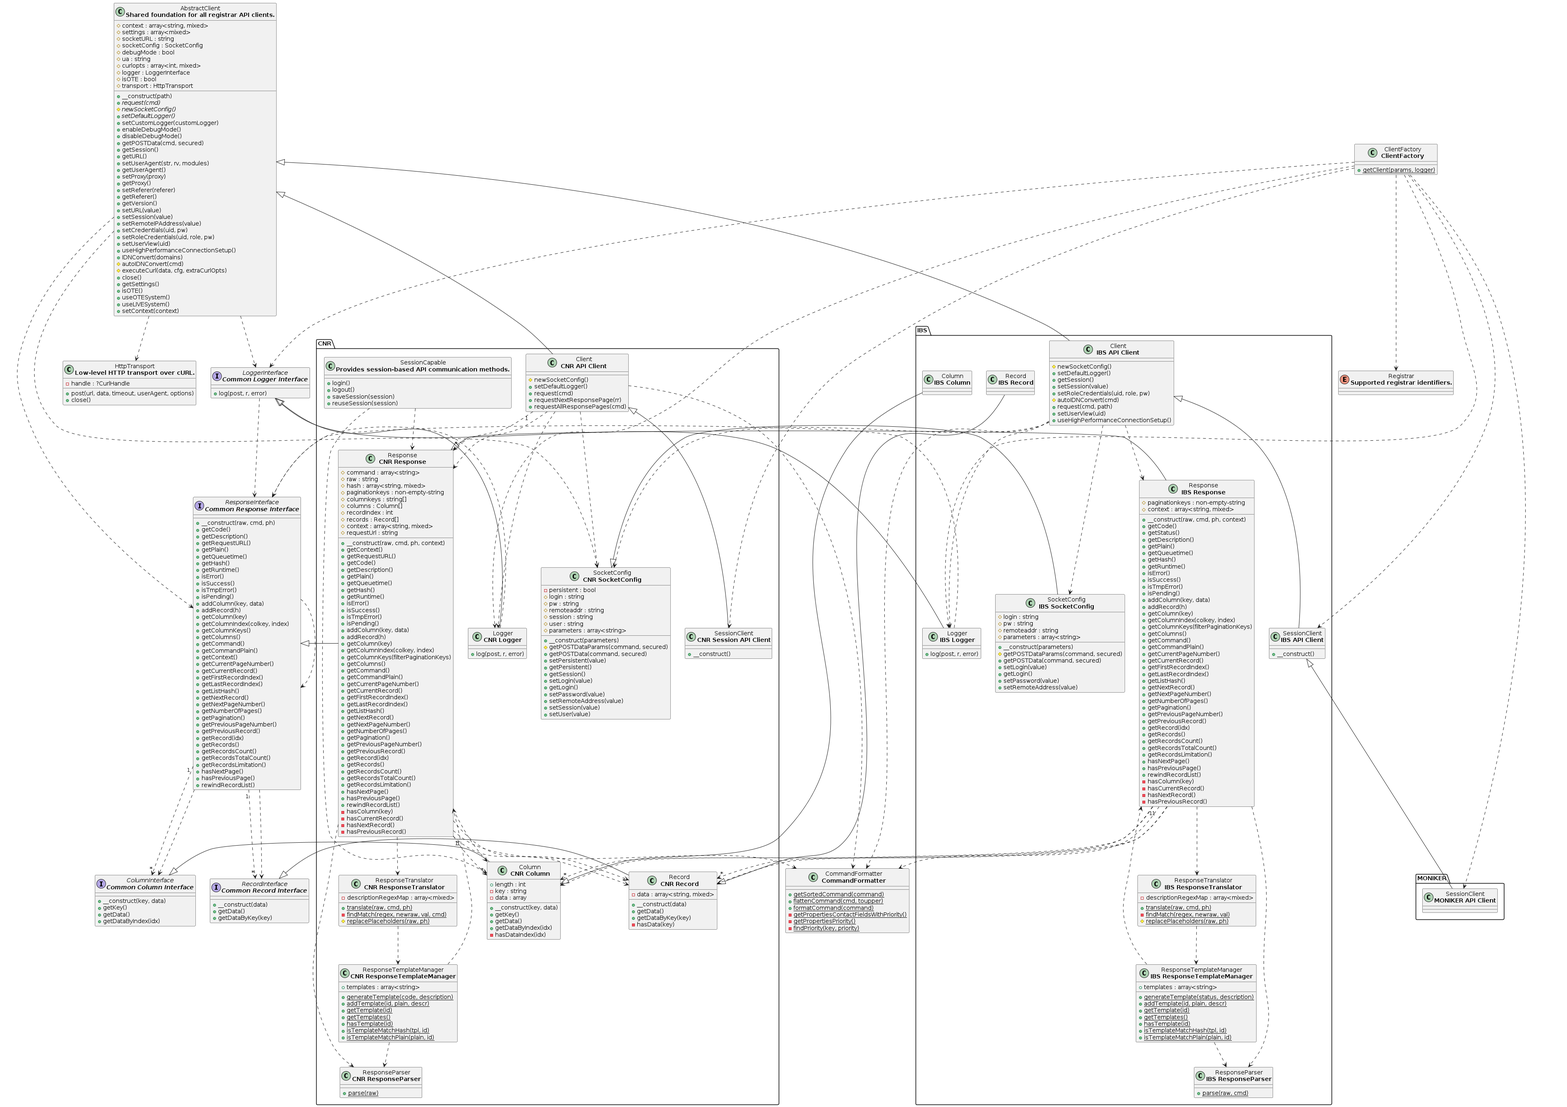
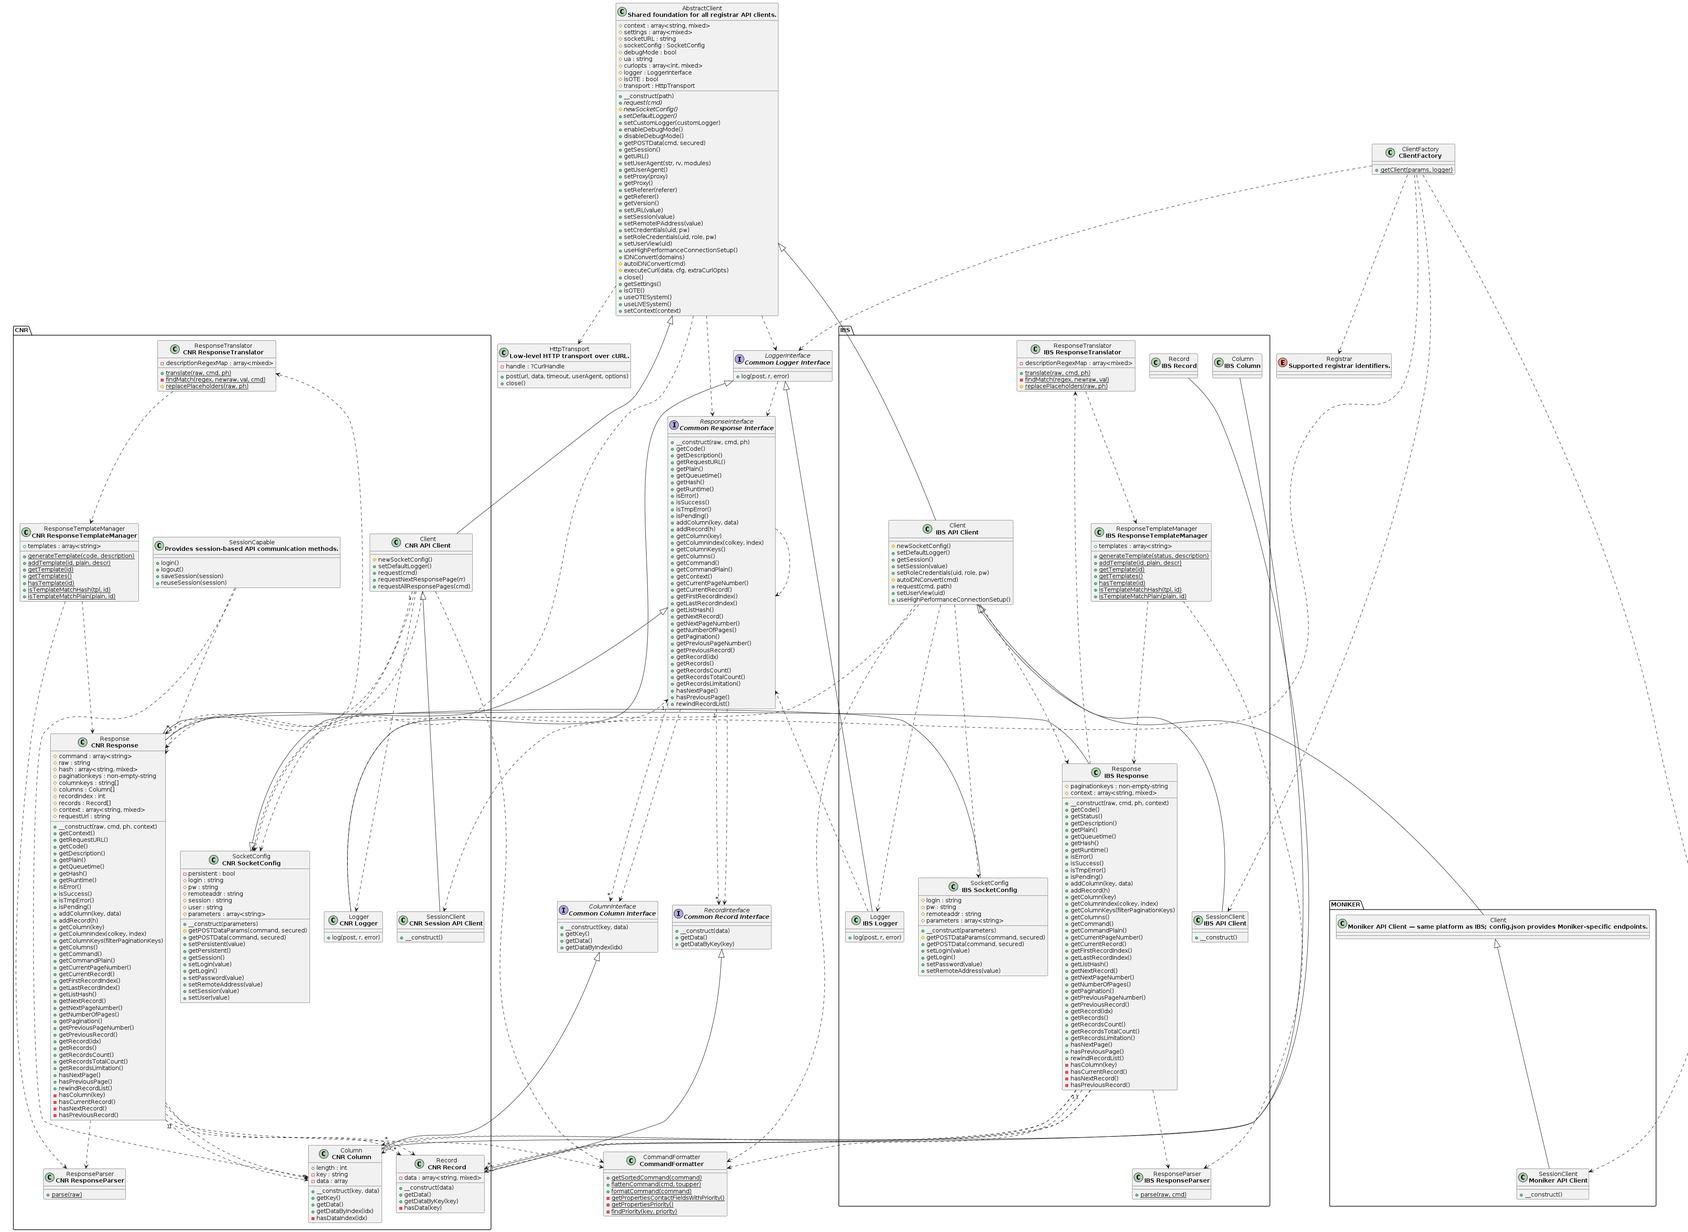
chore(release): 15.1.0 [skip ci]
# [15.1.0](https://github.com/centralnicgroup-opensource/rtldev-middleware-php-sdk/compare/v15.0.0...v15.1.0) (2026-06-12)

### Bug Fixes

* **devcontainer:** add shellcheck shell=bash directive to zsh scripts ([ab4dabb](https://github.com/centralnicgroup-opensource/rtldev-middleware-php-sdk/commit/ab4dabbbfdb591bec1d5ebb9752d1e61d55fde80))
* **devcontainer:** ensure xdebug coverage mode for PHPUnit in VSCode ([defcce9](https://github.com/centralnicgroup-opensource/rtldev-middleware-php-sdk/commit/defcce9d3c8598470f4268af169c8fd7f59719ee))
* **examples:** correct autoload path after moving scripts to examples/ ([0a68c11](https://github.com/centralnicgroup-opensource/rtldev-middleware-php-sdk/commit/0a68c116aaffb264961ba43c1ab204a671ec1f23))
* **ibs:** correct isSuccess() to accept non-error responses ([34996e9](https://github.com/centralnicgroup-opensource/rtldev-middleware-php-sdk/commit/34996e93e4b93c4b642a489838100f73cffe6724))
* **lint:** exclude node_modules and .husky/_/ from shellcheck scan ([09cd4c0](https://github.com/centralnicgroup-opensource/rtldev-middleware-php-sdk/commit/09cd4c01c69f607ab20d377801a42055a21a7a13))
* **moniker:** eliminate cross-namespace inheritance for MONIKER ([00a8219](https://github.com/centralnicgroup-opensource/rtldev-middleware-php-sdk/commit/00a82196aac78e42cce22494a74fbefdfb8a4d11))

### Features
[…]

diff --git a/docs/CNIC/MONIKER/Client.html b/docs/CNIC/MONIKER/Client.html
@@ -3,7 +3,7 @@
 <head>
     <meta charset="UTF-8" />
     <meta name="robots" content="index, follow, all" />
-    <title>CNIC\MONIKER\SessionClient | PHP SDK by CNIC</title>
+    <title>CNIC\MONIKER\Client | PHP SDK by CNIC</title>
 
             <link rel="stylesheet" type="text/css" href="../../css/bootstrap.min.css">
         <link rel="stylesheet" type="text/css" href="../../css/bootstrap-theme.min.css">
@@ -19,7 +19,7 @@
 
     </head>
 
-    <body id="class" data-name="class:CNIC_MONIKER_SessionClient" data-root-path="../../" data-search-index-url="../../doctum-search.json">
+    <body id="class" data-name="class:CNIC_MONIKER_Client" data-root-path="../../" data-search-index-url="../../doctum-search.json">
             <div id="content">
         <div id="left-column">
                 <div id="control-panel">
@@ -75,18 +75,18 @@
                         <div class="namespace-breadcrumbs">
             <ol class="breadcrumb">
                 <li><span class="label label-default">class</span></li>
-                        <li><a href="../../CNIC.html">CNIC</a></li><li class="backslash">\</li><li><a href="../../CNIC/MONIKER.html">MONIKER</a></li><li class="backslash">\</li><li>SessionClient</li>
+                        <li><a href="../../CNIC.html">CNIC</a></li><li class="backslash">\</li><li><a href="../../CNIC/MONIKER.html">MONIKER</a></li><li class="backslash">\</li><li>Client</li>
             </ol>
         </div>
                 <div id="page-content">
     <div class="page-header">
-        <h1>SessionClient    
+        <h1>Client    
             </h1>
     </div>
 
     
-    <p>final         class
-    <strong>SessionClient</strong>        extends <a href="../../CNIC/MONIKER/Client.html"><abbr title="CNIC\MONIKER\Client">Client</abbr></a>        (<a href="https://github.com/centralnicgroup-opensource/rtldev-middleware-php-sdk/blob/main/.github/../src/MONIKER/SessionClient.php">View source</a>)
+    <p>        class
+    <strong>Client</strong>        extends <a href="../../CNIC/IBS/Client.html"><abbr title="CNIC\IBS\Client">Client</abbr></a>        (<a href="https://github.com/centralnicgroup-opensource/rtldev-middleware-php-sdk/blob/main/.github/../src/MONIKER/Client.php">View source</a>)
 </p>
 
         
@@ -95,7 +95,7 @@
         
 
             <div class="description">
-            <p><p>Moniker API Client</p></p>                    </div>
+            <p><p>Moniker API Client — same platform as IBS; config.json provides Moniker-specific endpoints.</p></p>                    </div>
             
         
     
@@ -213,10 +213,11 @@
                     
                 </div>
                 <div class="col-md-8">
-                    <a href="#method___construct">__construct</a>()
+                    <a href="#method___construct">__construct</a>(string $path = &quot;&quot;)
         
                                             <p>Constructor</p>                </div>
-                <div class="col-md-2"></div>
+                <div class="col-md-2"><small>from&nbsp;<a href="../../CNIC/AbstractClient.html#method___construct">
+<abbr title="CNIC\AbstractClient">AbstractClient</abbr></a></small></div>
             </div>
                     <div class="row">
                 <div class="col-md-2 type">
@@ -582,9 +583,10 @@ Note: not supported.</p></p>                </div>
             <div id="method-details">
                     <div class="method-item">
                     <h3 id="method___construct">
-        <div class="location"><a href="https://github.com/centralnicgroup-opensource/rtldev-middleware-php-sdk/blob/main/.github/../src/MONIKER/SessionClient.php#L24">at line 24</a></div>
+        <div class="location">in <a href="../../CNIC/AbstractClient.html#method___construct">
+<abbr title="CNIC\AbstractClient">AbstractClient</abbr></a> <a href="https://github.com/centralnicgroup-opensource/rtldev-middleware-php-sdk/blob/main/.github/../src/AbstractClient.php#L86">at line 86</a></div>
         <code>                    
-    <strong>__construct</strong>()
+    <strong>__construct</strong>(string $path = &quot;&quot;)
         </code>
     </h3>
     <div class="details">    
@@ -596,17 +598,18 @@ Note: not supported.</p></p>                </div>
                             <p>Constructor</p>                        
         </div>
         <div class="tags">
-            
-            
-                            <h4>Exceptions</h4>
+                            <h4>Parameters</h4>
 
                     <table class="table table-condensed">
                     <tr>
-                <td><a target="_blank" rel="noopener" href="https://www.php.net/Exception">Exception</a></td>
-                <td></td>
+                <td>string</td>
+                <td>$path</td>
+                <td><p>Path to the configuration file</p></td>
             </tr>
             </table>
 
+            
+            
             
             
                     </div>

diff --git a/docs/doc-index.html b/docs/doc-index.html
@@ -154,7 +154,8 @@
                     <dd><p>IBS API Client</p></dd><dt><a href="CNIC/IBS/Column.html"><abbr title="CNIC\IBS\Column">Column</abbr></a> &mdash; <em>Class in namespace <a href="CNIC/IBS.html">CNIC\IBS</a></em></dt>
                     <dd><p>IBS Column</p></dd><dt>$<a href="CNIC/IBS/Response.html#property_context">
 <abbr title="CNIC\IBS\Response">Response</abbr>#context</a> &mdash; <em>Property in class <a href="CNIC/IBS/Response.html"><abbr title="CNIC\IBS\Response">Response</abbr></a></em></dt>
-                    <dd><p>Context data for the response</p></dd>        </dl><h2 id="letterD">D</h2>
+                    <dd><p>Context data for the response</p></dd><dt><a href="CNIC/MONIKER/Client.html"><abbr title="CNIC\MONIKER\Client">Client</abbr></a> &mdash; <em>Class in namespace <a href="CNIC/MONIKER.html">CNIC\MONIKER</a></em></dt>
+                    <dd><p>Moniker API Client — same platform as IBS; config.json provides Moniker-specific endpoints.</p></dd>        </dl><h2 id="letterD">D</h2>
         <dl id="indexD"><dt>$<a href="CNIC/AbstractClient.html#property_debugMode">
 <abbr title="CNIC\AbstractClient">AbstractClient</abbr>#debugMode</a> &mdash; <em>Property in class <a href="CNIC/AbstractClient.html"><abbr title="CNIC\AbstractClient">AbstractClient</abbr></a></em></dt>
                     <dd><p>activity flag for debug mode</p></dd><dt><a href="CNIC/AbstractClient.html#method_disableDebugMode">
@@ -655,7 +656,7 @@ Note: not supported.</p></dd><dt><a href="CNIC/IBS/SessionClient.html"><abbr tit
                     <dd><p>Set account password to use</p></dd><dt><a href="CNIC/IBS/SocketConfig.html#method_setRemoteAddress">
 <abbr title="CNIC\IBS\SocketConfig">SocketConfig</abbr>::setRemoteAddress</a>() &mdash; <em>Method in class <a href="CNIC/IBS/SocketConfig.html"><abbr title="CNIC\IBS\SocketConfig">SocketConfig</abbr></a></em></dt>
                     <dd><p>Set Remote IP Address to use</p></dd><dt><a href="CNIC/MONIKER/SessionClient.html"><abbr title="CNIC\MONIKER\SessionClient">SessionClient</abbr></a> &mdash; <em>Class in namespace <a href="CNIC/MONIKER.html">CNIC\MONIKER</a></em></dt>
-                    <dd><p>MONIKER API Client</p></dd>        </dl><h2 id="letterT">T</h2>
+                    <dd><p>Moniker API Client</p></dd>        </dl><h2 id="letterT">T</h2>
         <dl id="indexT"><dt>$<a href="CNIC/AbstractClient.html#property_transport">
 <abbr title="CNIC\AbstractClient">AbstractClient</abbr>#transport</a> &mdash; <em>Property in class <a href="CNIC/AbstractClient.html"><abbr title="CNIC\AbstractClient">AbstractClient</abbr></a></em></dt>
                     <dd><p>HTTP transport layer</p></dd><dt>$<a href="CNIC/CNR/ResponseTemplateManager.html#property_templates">
@@ -702,6 +703,8 @@ e.g.</p></dd><dt><a href="CNIC/CNR/Response.html#method___construct">
 <abbr title="CNIC\IBS\SessionClient">SessionClient</abbr>::__construct</a>() &mdash; <em>Method in class <a href="CNIC/IBS/SessionClient.html"><abbr title="CNIC\IBS\SessionClient">SessionClient</abbr></a></em></dt>
                     <dd>Constructor</dd><dt><a href="CNIC/IBS/SocketConfig.html#method___construct">
 <abbr title="CNIC\IBS\SocketConfig">SocketConfig</abbr>::__construct</a>() &mdash; <em>Method in class <a href="CNIC/IBS/SocketConfig.html"><abbr title="CNIC\IBS\SocketConfig">SocketConfig</abbr></a></em></dt>
+                    <dd>Constructor</dd><dt><a href="CNIC/MONIKER/SessionClient.html#method___construct">
+<abbr title="CNIC\MONIKER\SessionClient">SessionClient</abbr>::__construct</a>() &mdash; <em>Method in class <a href="CNIC/MONIKER/SessionClient.html"><abbr title="CNIC\MONIKER\SessionClient">SessionClient</abbr></a></em></dt>
                     <dd>Constructor</dd><dt><a href="CNIC/RecordInterface.html#method___construct">
 <abbr title="CNIC\RecordInterface">RecordInterface</abbr>::__construct</a>() &mdash; <em>Method in class <a href="CNIC/RecordInterface.html"><abbr title="CNIC\RecordInterface">RecordInterface</abbr></a></em></dt>
                     <dd><p>Constructor

diff --git a/docs/doctum.js b/docs/doctum.js
@@ -1,5 +1,5 @@
 var Doctum = {
-    treeJson: {"tree":{"l":0,"n":"","p":"","c":[{"l":1,"n":"CNIC","p":"CNIC","c":[{"l":2,"n":"CNR","p":"CNIC/CNR","c":[{"l":3,"n":"Client","p":"CNIC/CNR/Client"},{"l":3,"n":"Column","p":"CNIC/CNR/Column"},{"l":3,"n":"Logger","p":"CNIC/CNR/Logger"},{"l":3,"n":"Record","p":"CNIC/CNR/Record"},{"l":3,"n":"Response","p":"CNIC/CNR/Response"},{"l":3,"n":"ResponseParser","p":"CNIC/CNR/ResponseParser"},{"l":3,"n":"ResponseTemplateManager","p":"CNIC/CNR/ResponseTemplateManager"},{"l":3,"n":"ResponseTranslator","p":"CNIC/CNR/ResponseTranslator"},{"l":3,"n":"SessionCapable","p":"CNIC/CNR/SessionCapable"},{"l":3,"n":"SessionClient","p":"CNIC/CNR/SessionClient"},{"l":3,"n":"SocketConfig","p":"CNIC/CNR/SocketConfig"}]},{"l":2,"n":"IBS","p":"CNIC/IBS","c":[{"l":3,"n":"Client","p":"CNIC/IBS/Client"},{"l":3,"n":"Column","p":"CNIC/IBS/Column"},{"l":3,"n":"Logger","p":"CNIC/IBS/Logger"},{"l":3,"n":"Record","p":"CNIC/IBS/Record"},{"l":3,"n":"Response","p":"CNIC/IBS/Response"},{"l":3,"n":"ResponseParser","p":"CNIC/IBS/ResponseParser"},{"l":3,"n":"ResponseTemplateManager","p":"CNIC/IBS/ResponseTemplateManager"},{"l":3,"n":"ResponseTranslator","p":"CNIC/IBS/ResponseTranslator"},{"l":3,"n":"SessionClient","p":"CNIC/IBS/SessionClient"},{"l":3,"n":"SocketConfig","p":"CNIC/IBS/SocketConfig"}]},{"l":2,"n":"MONIKER","p":"CNIC/MONIKER","c":[{"l":3,"n":"SessionClient","p":"CNIC/MONIKER/SessionClient"}]},{"l":2,"n":"AbstractClient","p":"CNIC/AbstractClient"},{"l":2,"n":"ClientFactory","p":"CNIC/ClientFactory"},{"l":2,"n":"ColumnInterface","p":"CNIC/ColumnInterface"},{"l":2,"n":"CommandFormatter","p":"CNIC/CommandFormatter"},{"l":2,"n":"HttpTransport","p":"CNIC/HttpTransport"},{"l":2,"n":"LoggerInterface","p":"CNIC/LoggerInterface"},{"l":2,"n":"RecordInterface","p":"CNIC/RecordInterface"},{"l":2,"n":"ResponseInterface","p":"CNIC/ResponseInterface"}]}]},"treeOpenLevel":2},
+    treeJson: {"tree":{"l":0,"n":"","p":"","c":[{"l":1,"n":"CNIC","p":"CNIC","c":[{"l":2,"n":"CNR","p":"CNIC/CNR","c":[{"l":3,"n":"Client","p":"CNIC/CNR/Client"},{"l":3,"n":"Column","p":"CNIC/CNR/Column"},{"l":3,"n":"Logger","p":"CNIC/CNR/Logger"},{"l":3,"n":"Record","p":"CNIC/CNR/Record"},{"l":3,"n":"Response","p":"CNIC/CNR/Response"},{"l":3,"n":"ResponseParser","p":"CNIC/CNR/ResponseParser"},{"l":3,"n":"ResponseTemplateManager","p":"CNIC/CNR/ResponseTemplateManager"},{"l":3,"n":"ResponseTranslator","p":"CNIC/CNR/ResponseTranslator"},{"l":3,"n":"SessionCapable","p":"CNIC/CNR/SessionCapable"},{"l":3,"n":"SessionClient","p":"CNIC/CNR/SessionClient"},{"l":3,"n":"SocketConfig","p":"CNIC/CNR/SocketConfig"}]},{"l":2,"n":"IBS","p":"CNIC/IBS","c":[{"l":3,"n":"Client","p":"CNIC/IBS/Client"},{"l":3,"n":"Column","p":"CNIC/IBS/Column"},{"l":3,"n":"Logger","p":"CNIC/IBS/Logger"},{"l":3,"n":"Record","p":"CNIC/IBS/Record"},{"l":3,"n":"Response","p":"CNIC/IBS/Response"},{"l":3,"n":"ResponseParser","p":"CNIC/IBS/ResponseParser"},{"l":3,"n":"ResponseTemplateManager","p":"CNIC/IBS/ResponseTemplateManager"},{"l":3,"n":"ResponseTranslator","p":"CNIC/IBS/ResponseTranslator"},{"l":3,"n":"SessionClient","p":"CNIC/IBS/SessionClient"},{"l":3,"n":"SocketConfig","p":"CNIC/IBS/SocketConfig"}]},{"l":2,"n":"MONIKER","p":"CNIC/MONIKER","c":[{"l":3,"n":"Client","p":"CNIC/MONIKER/Client"},{"l":3,"n":"SessionClient","p":"CNIC/MONIKER/SessionClient"}]},{"l":2,"n":"AbstractClient","p":"CNIC/AbstractClient"},{"l":2,"n":"ClientFactory","p":"CNIC/ClientFactory"},{"l":2,"n":"ColumnInterface","p":"CNIC/ColumnInterface"},{"l":2,"n":"CommandFormatter","p":"CNIC/CommandFormatter"},{"l":2,"n":"HttpTransport","p":"CNIC/HttpTransport"},{"l":2,"n":"LoggerInterface","p":"CNIC/LoggerInterface"},{"l":2,"n":"RecordInterface","p":"CNIC/RecordInterface"},{"l":2,"n":"ResponseInterface","p":"CNIC/ResponseInterface"}]}]},"treeOpenLevel":2},
     /** @var boolean */
     treeLoaded: false,
     /** @var boolean */

diff --git a/docs/CNIC/ClientFactory.html b/docs/CNIC/ClientFactory.html
@@ -105,7 +105,7 @@
             <div class="container-fluid underlined">
                     <div class="row">
                 <div class="col-md-2 type">
-                    static&nbsp;<a href="../CNIC/CNR/SessionClient.html"><abbr title="CNIC\CNR\SessionClient">SessionClient</abbr></a>|<a href="../CNIC/IBS/SessionClient.html"><abbr title="CNIC\IBS\SessionClient">SessionClient</abbr></a>
+                    static&nbsp;<a href="../CNIC/CNR/SessionClient.html"><abbr title="CNIC\CNR\SessionClient">SessionClient</abbr></a>|<a href="../CNIC/IBS/SessionClient.html"><abbr title="CNIC\IBS\SessionClient">SessionClient</abbr></a>|<a href="../CNIC/MONIKER/SessionClient.html"><abbr title="CNIC\MONIKER\SessionClient">SessionClient</abbr></a>
                 </div>
                 <div class="col-md-8">
                     <a href="#method_getClient">getClient</a>(array $params, <a href="../CNIC/LoggerInterface.html"><abbr title="CNIC\LoggerInterface">LoggerInterface</abbr></a>|null $logger = null)
@@ -121,8 +121,8 @@
             <div id="method-details">
                     <div class="method-item">
                     <h3 id="method_getClient">
-        <div class="location"><a href="https://github.com/centralnicgroup-opensource/rtldev-middleware-php-sdk/blob/main/.github/../src/ClientFactory.php#L29">at line 29</a></div>
-        <code>        static            <a href="../CNIC/CNR/SessionClient.html"><abbr title="CNIC\CNR\SessionClient">SessionClient</abbr></a>|<a href="../CNIC/IBS/SessionClient.html"><abbr title="CNIC\IBS\SessionClient">SessionClient</abbr></a>
+        <div class="location"><a href="https://github.com/centralnicgroup-opensource/rtldev-middleware-php-sdk/blob/main/.github/../src/ClientFactory.php#L27">at line 27</a></div>
+        <code>        static            <a href="../CNIC/CNR/SessionClient.html"><abbr title="CNIC\CNR\SessionClient">SessionClient</abbr></a>|<a href="../CNIC/IBS/SessionClient.html"><abbr title="CNIC\IBS\SessionClient">SessionClient</abbr></a>|<a href="../CNIC/MONIKER/SessionClient.html"><abbr title="CNIC\MONIKER\SessionClient">SessionClient</abbr></a>
     <strong>getClient</strong>(array $params, <a href="../CNIC/LoggerInterface.html"><abbr title="CNIC\LoggerInterface">LoggerInterface</abbr></a>|null $logger = null)
         </code>
     </h3>
@@ -155,7 +155,7 @@
 
                     <table class="table table-condensed">
         <tr>
-            <td><a href="../CNIC/CNR/SessionClient.html"><abbr title="CNIC\CNR\SessionClient">SessionClient</abbr></a>|<a href="../CNIC/IBS/SessionClient.html"><abbr title="CNIC\IBS\SessionClient">SessionClient</abbr></a></td>
+            <td><a href="../CNIC/CNR/SessionClient.html"><abbr title="CNIC\CNR\SessionClient">SessionClient</abbr></a>|<a href="../CNIC/IBS/SessionClient.html"><abbr title="CNIC\IBS\SessionClient">SessionClient</abbr></a>|<a href="../CNIC/MONIKER/SessionClient.html"><abbr title="CNIC\MONIKER\SessionClient">SessionClient</abbr></a></td>
             <td></td>
         </tr>
     </table>

diff --git a/docs/traits.html b/docs/traits.html
@@ -85,7 +85,7 @@
                         <p>Provides session-based API communication methods.</p>
                     </div>
                 </div>
-                                                                                                                                                                                                                                                                                                                                                                                                                                        </div>
+                                                                                                                                                                                                                                                                                                                                                                                                                                                            </div>
 </div><div id="footer">
         Generated by <a href="https://github.com/code-lts/doctum">Doctum, a API Documentation generator and fork of Sami</a>.</div></div>
     </div>

diff --git a/docs/classes.html b/docs/classes.html
@@ -217,8 +217,13 @@
             </div>
                     <div class="row">
                 <div class="col-md-6">
+                    <a href="CNIC/MONIKER/Client.html"><abbr title="CNIC\MONIKER\Client">Client</abbr></a>    </div>
+                <div class="col-md-6"><p>Moniker API Client — same platform as IBS; config.json provides Moniker-specific endpoints.</p></div>
+            </div>
+                    <div class="row">
+                <div class="col-md-6">
                     <a href="CNIC/MONIKER/SessionClient.html"><abbr title="CNIC\MONIKER\SessionClient">SessionClient</abbr></a>    </div>
-                <div class="col-md-6"><p>MONIKER API Client</p></div>
+                <div class="col-md-6"><p>Moniker API Client</p></div>
             </div>
                     <div class="row">
                 <div class="col-md-6">

diff --git a/docs/CNIC/MONIKER.html b/docs/CNIC/MONIKER.html
@@ -88,8 +88,13 @@
     <div class="container-fluid underlined">
                     <div class="row">
                 <div class="col-md-6">
+                    <a href="../CNIC/MONIKER/Client.html"><abbr title="CNIC\MONIKER\Client">Client</abbr></a>    </div>
+                <div class="col-md-6"><p>Moniker API Client — same platform as IBS; config.json provides Moniker-specific endpoints.</p></div>
+            </div>
+                    <div class="row">
+                <div class="col-md-6">
                     <a href="../CNIC/MONIKER/SessionClient.html"><abbr title="CNIC\MONIKER\SessionClient">SessionClient</abbr></a>    </div>
-                <div class="col-md-6"><p>MONIKER API Client</p></div>
+                <div class="col-md-6"><p>Moniker API Client</p></div>
             </div>
             </div>
     

diff --git a/src/AbstractClient.php b/src/AbstractClient.php
@@ -263,7 +263,7 @@ abstract class AbstractClient
      */
     public function getVersion(): string
     {
-        return "15.0.0";
+        return "15.1.0";
     }
 
     /**

diff --git a/HISTORY.md b/HISTORY.md
@@ -1,3 +1,21 @@
+# [15.1.0](https://github.com/centralnicgroup-opensource/rtldev-middleware-php-sdk/compare/v15.0.0...v15.1.0) (2026-06-12)
+
+
+### Bug Fixes
+
+* **devcontainer:** add shellcheck shell=bash directive to zsh scripts ([ab4dabb](https://github.com/centralnicgroup-opensource/rtldev-middleware-php-sdk/commit/ab4dabbbfdb591bec1d5ebb9752d1e61d55fde80))
+* **devcontainer:** ensure xdebug coverage mode for PHPUnit in VSCode ([defcce9](https://github.com/centralnicgroup-opensource/rtldev-middleware-php-sdk/commit/defcce9d3c8598470f4268af169c8fd7f59719ee))
+* **examples:** correct autoload path after moving scripts to examples/ ([0a68c11](https://github.com/centralnicgroup-opensource/rtldev-middleware-php-sdk/commit/0a68c116aaffb264961ba43c1ab204a671ec1f23))
+* **ibs:** correct isSuccess() to accept non-error responses ([34996e9](https://github.com/centralnicgroup-opensource/rtldev-middleware-php-sdk/commit/34996e93e4b93c4b642a489838100f73cffe6724))
+* **lint:** exclude node_modules and .husky/_/ from shellcheck scan ([09cd4c0](https://github.com/centralnicgroup-opensource/rtldev-middleware-php-sdk/commit/09cd4c01c69f607ab20d377801a42055a21a7a13))
+* **moniker:** eliminate cross-namespace inheritance for MONIKER ([00a8219](https://github.com/centralnicgroup-opensource/rtldev-middleware-php-sdk/commit/00a82196aac78e42cce22494a74fbefdfb8a4d11))
+
+
+### Features
+
+* **devcontainer:** add shellcheck to Dockerfile and composer lint ([fdc9de1](https://github.com/centralnicgroup-opensource/rtldev-middleware-php-sdk/commit/fdc9de1a48fae2ed85fbc40f3e89e5e60d547d11))
+* **devcontainer:** auto-load env.sh for terminal sessions and PHPUnit runs ([978cbc7](https://github.com/centralnicgroup-opensource/rtldev-middleware-php-sdk/commit/978cbc7be24211504750b040f103b687ee8acafe))
+
 # [15.0.0](https://github.com/centralnicgroup-opensource/rtldev-middleware-php-sdk/compare/v14.1.2...v15.0.0) (2026-06-08)
 
 
